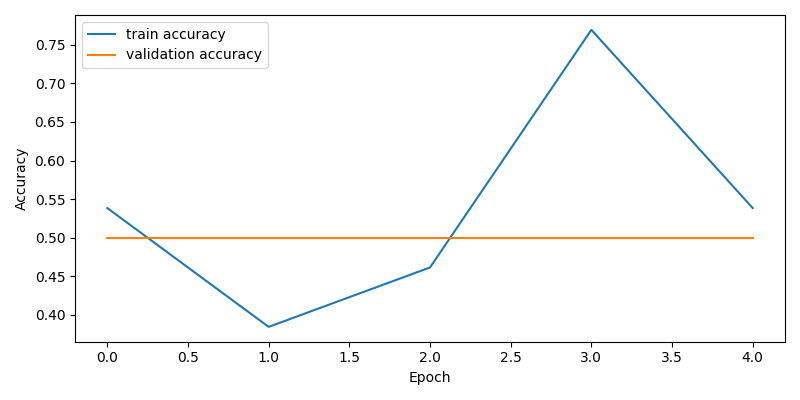
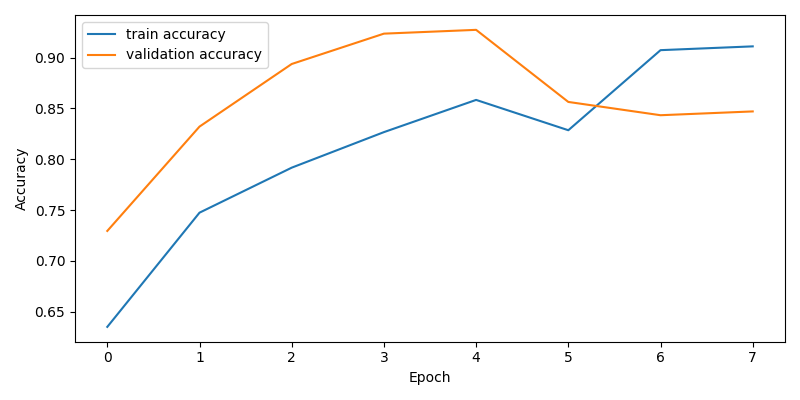
Train balanced pneumonia classifier

diff --git a/train_model.py b/train_model.py
@@ -1,28 +1,123 @@
 from pathlib import Path
 
 import matplotlib.pyplot as plt
+import numpy as np
 import tensorflow as tf
 
 
 IMAGE_SIZE = (224, 224)
 BATCH_SIZE = 32
-EPOCHS = 5
+FEATURE_EXTRACTION_EPOCHS = 5
+FINE_TUNE_EPOCHS = 3
+FINE_TUNE_AT = 100
+VALIDATION_SPLIT = 0.2
+SEED = 42
 
 BASE_DIR = Path(__file__).parent
-DATA_DIR = BASE_DIR / "data" / "chest_xray"
+LOCAL_DATA_DIR = BASE_DIR / "data" / "chest_xray"
+KAGGLE_DOWNLOAD_DATA_DIR = Path.home() / "Downloads" / "chest_xray" / "chest_xray"
+DATA_DIR = KAGGLE_DOWNLOAD_DATA_DIR if KAGGLE_DOWNLOAD_DATA_DIR.exists() else LOCAL_DATA_DIR
 MODEL_DIR = BASE_DIR / "model"
 MODEL_PATH = MODEL_DIR / "pneumonia_detector.keras"
+BEST_MODEL_PATH = MODEL_DIR / "best_pneumonia_detector.keras"
 CLASS_NAMES_PATH = MODEL_DIR / "class_names.txt"
 
 
-def load_dataset(split_name):
+def get_image_paths(class_dir):
+    image_extensions = ("*.jpg", "*.jpeg", "*.png")
+    image_paths = []
+    for extension in image_extensions:
+        image_paths.extend(class_dir.glob(extension))
+    return sorted(image_paths)
+
+
+def load_and_resize_image(image_path, label):
+    image = tf.io.read_file(image_path)
+    image = tf.io.decode_image(image, channels=3, expand_animations=False)
+    image.set_shape([None, None, 3])
+    image = tf.image.resize(image, IMAGE_SIZE)
+    return image, label
+
+
+def make_dataset(image_paths, labels, shuffle):
+    path_ds = tf.data.Dataset.from_tensor_slices([str(path) for path in image_paths])
+    label_ds = tf.data.Dataset.from_tensor_slices(labels)
+    dataset = tf.data.Dataset.zip((path_ds, label_ds))
+
+    if shuffle:
+        dataset = dataset.shuffle(buffer_size=len(image_paths), seed=SEED)
+
+    return (
+        dataset
+        .map(load_and_resize_image, num_parallel_calls=tf.data.AUTOTUNE)
+        .batch(BATCH_SIZE)
+    )
+
+
+def load_balanced_training_datasets():
+    class_names = sorted(
+        path.name for path in (DATA_DIR / "train").iterdir() if path.is_dir()
+    )
+
+    normal_paths = get_image_paths(DATA_DIR / "train" / class_names[0])
+    pneumonia_paths = get_image_paths(DATA_DIR / "train" / class_names[1])
+
+    sample_count = min(len(normal_paths), len(pneumonia_paths))
+    rng = np.random.default_rng(SEED)
+
+    normal_paths = rng.choice(normal_paths, size=sample_count, replace=False)
+    pneumonia_paths = rng.choice(pneumonia_paths, size=sample_count, replace=False)
+
+    image_paths = np.concatenate([normal_paths, pneumonia_paths])
+    labels = np.array(
+        [[1, 0]] * sample_count + [[0, 1]] * sample_count,
+        dtype=np.float32,
+    )
+
+    indices = rng.permutation(len(image_paths))
+    image_paths = image_paths[indices]
+    labels = labels[indices]
+
+    validation_count = int(len(image_paths) * VALIDATION_SPLIT)
+    val_paths = image_paths[:validation_count]
+    val_labels = labels[:validation_count]
+    train_paths = image_paths[validation_count:]
+    train_labels = labels[validation_count:]
+
+    print(f"Balanced training images per class: {sample_count}")
+    print(f"Training images: {len(train_paths)}")
+    print(f"Validation images: {len(val_paths)}")
+
+    train_ds = make_dataset(train_paths, train_labels, shuffle=True)
+    val_ds = make_dataset(val_paths, val_labels, shuffle=False)
+    return train_ds, val_ds, class_names
+
+
+def load_test_dataset():
     return tf.keras.utils.image_dataset_from_directory(
-        DATA_DIR / split_name,
+        DATA_DIR / "test",
         image_size=IMAGE_SIZE,
         batch_size=BATCH_SIZE,
         label_mode="categorical",
-        shuffle=split_name == "train",
+        shuffle=False,
     )
+
+
+def count_images_by_class(split_name, class_names):
+    return {
+        index: len(list((DATA_DIR / split_name / class_name).glob("*")))
+        for index, class_name in enumerate(class_names)
+    }
+
+
+def build_class_weights(class_counts):
+    total_images = sum(class_counts.values())
+    class_count = len(class_counts)
+    return {
+        class_index: total_images / (class_count * image_count)
+        for class_index, image_count in class_counts.items()
+        if image_count > 0
+    }
 
 
 def build_model(class_count):
@@ -56,13 +151,34 @@ def build_model(class_count):
         loss="categorical_crossentropy",
         metrics=["accuracy"],
     )
-    return model
+    return model, base_model
 
 
-def save_training_plot(history):
+def fine_tune_model(model, base_model):
+    base_model.trainable = True
+
+    for layer in base_model.layers[:FINE_TUNE_AT]:
+        layer.trainable = False
+
+    model.compile(
+        optimizer=tf.keras.optimizers.Adam(learning_rate=0.00001),
+        loss="categorical_crossentropy",
+        metrics=["accuracy"],
+    )
+
+
+def merge_histories(*histories):
+    combined = {}
+    for history in histories:
+        for key, values in history.history.items():
+            combined.setdefault(key, []).extend(values)
+    return combined
+
+
+def save_training_plot(history_data):
     plt.figure(figsize=(8, 4))
-    plt.plot(history.history["accuracy"], label="train accuracy")
-    plt.plot(history.history["val_accuracy"], label="validation accuracy")
+    plt.plot(history_data["accuracy"], label="train accuracy")
+    plt.plot(history_data["val_accuracy"], label="validation accuracy")
     plt.xlabel("Epoch")
     plt.ylabel("Accuracy")
     plt.legend()
@@ -79,23 +195,59 @@ def main():
 
     MODEL_DIR.mkdir(exist_ok=True)
 
-    train_ds = load_dataset("train")
-    val_ds = load_dataset("val")
+    print(f"Using dataset from {DATA_DIR}")
 
-    class_names = train_ds.class_names
+    train_ds, val_ds, class_names = load_balanced_training_datasets()
     CLASS_NAMES_PATH.write_text("\n".join(class_names))
 
     train_ds = train_ds.prefetch(tf.data.AUTOTUNE)
     val_ds = val_ds.prefetch(tf.data.AUTOTUNE)
+    test_ds = load_test_dataset().prefetch(tf.data.AUTOTUNE)
 
-    model = build_model(class_count=len(class_names))
-    history = model.fit(train_ds, validation_data=val_ds, epochs=EPOCHS)
+    callbacks = [
+        tf.keras.callbacks.ModelCheckpoint(
+            BEST_MODEL_PATH,
+            monitor="val_accuracy",
+            mode="max",
+            save_best_only=True,
+        ),
+        tf.keras.callbacks.EarlyStopping(
+            monitor="val_loss",
+            patience=5,
+            restore_best_weights=True,
+        ),
+        tf.keras.callbacks.ReduceLROnPlateau(
+            monitor="val_loss",
+            factor=0.3,
+            patience=2,
+        ),
+    ]
+
+    model, base_model = build_model(class_count=len(class_names))
+    feature_history = model.fit(
+        train_ds,
+        validation_data=val_ds,
+        epochs=FEATURE_EXTRACTION_EPOCHS,
+        callbacks=callbacks,
+    )
+
+    fine_tune_model(model, base_model)
+    fine_tune_history = model.fit(
+        train_ds,
+        validation_data=val_ds,
+        epochs=FINE_TUNE_EPOCHS,
+        callbacks=callbacks,
+    )
 
     model.save(MODEL_PATH)
-    save_training_plot(history)
+    save_training_plot(merge_histories(feature_history, fine_tune_history))
+    test_loss, test_accuracy = model.evaluate(test_ds)
 
     print(f"Saved model to {MODEL_PATH}")
+    print(f"Saved best model to {BEST_MODEL_PATH}")
     print(f"Saved class names to {CLASS_NAMES_PATH}")
+    print(f"Test accuracy: {test_accuracy:.4f}")
+    print(f"Test loss: {test_loss:.4f}")
 
 
 if __name__ == "__main__":

diff --git a/evaluate_model.py b/evaluate_model.py
@@ -1,0 +1,69 @@
+from pathlib import Path
+
+import numpy as np
+import tensorflow as tf
+
+
+IMAGE_SIZE = (224, 224)
+BATCH_SIZE = 32
+
+BASE_DIR = Path(__file__).parent
+MODEL_PATH = BASE_DIR / "model" / "best_pneumonia_detector.keras"
+TEST_DIR = Path.home() / "Downloads" / "chest_xray" / "chest_xray" / "test"
+
+
+def main():
+    model = tf.keras.models.load_model(MODEL_PATH)
+
+    test_ds = tf.keras.utils.image_dataset_from_directory(
+        TEST_DIR,
+        image_size=IMAGE_SIZE,
+        batch_size=BATCH_SIZE,
+        label_mode="categorical",
+        shuffle=False,
+    )
+
+    class_names = test_ds.class_names
+
+    true_labels = []
+    predicted_labels = []
+    confidences = []
+
+    for images, labels in test_ds:
+        predictions = model.predict(images, verbose=0)
+
+        true_labels.extend(np.argmax(labels.numpy(), axis=1))
+        predicted_labels.extend(np.argmax(predictions, axis=1))
+        confidences.extend(np.max(predictions, axis=1))
+
+    true_labels = np.array(true_labels)
+    predicted_labels = np.array(predicted_labels)
+    confidences = np.array(confidences)
+
+    print("Classes:", class_names)
+    print("Overall accuracy:", np.mean(true_labels == predicted_labels))
+
+    print("\nConfusion matrix")
+    print("Rows = actual, columns = predicted")
+
+    matrix = np.zeros((len(class_names), len(class_names)), dtype=int)
+
+    for actual, predicted in zip(true_labels, predicted_labels):
+        matrix[actual][predicted] += 1
+
+    print(matrix)
+
+    print("\nPer-class accuracy")
+    for index, class_name in enumerate(class_names):
+        class_mask = true_labels == index
+        class_accuracy = np.mean(predicted_labels[class_mask] == true_labels[class_mask])
+        print(f"{class_name}: {class_accuracy:.2%}")
+
+    correct_mask = true_labels == predicted_labels
+    print("\nAverage confidence")
+    print(f"Correct predictions: {np.mean(confidences[correct_mask]):.2%}")
+    print(f"Wrong predictions: {np.mean(confidences[~correct_mask]):.2%}")
+
+
+if __name__ == "__main__":
+    main()

diff --git a/predict.py b/predict.py
@@ -9,11 +9,13 @@ IMAGE_SIZE = (224, 224)
 
 BASE_DIR = Path(__file__).parent
 MODEL_PATH = BASE_DIR / "model" / "pneumonia_detector.keras"
+BEST_MODEL_PATH = BASE_DIR / "model" / "best_pneumonia_detector.keras"
 CLASS_NAMES_PATH = BASE_DIR / "model" / "class_names.txt"
 
 
 def load_model():
-    return tf.keras.models.load_model(MODEL_PATH)
+    model_path = BEST_MODEL_PATH if BEST_MODEL_PATH.exists() else MODEL_PATH
+    return tf.keras.models.load_model(model_path)
 
 
 def load_class_names():